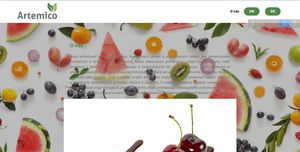
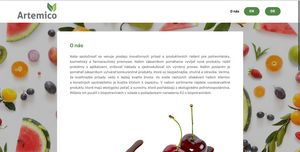
Sum

diff --git a/docs/objekta/web/04-2.html b/docs/objekta/web/04-2.html
@@ -15,6 +15,6 @@ body {
 }
 </style>
 <body> 
-<div align="center"> <a href="04-2.html"><img src="04.jpg" width="1300" height="3508" border="0"></a></div>
+<div align="center"> <a href="05.html"><img src="04-2.jpg" width="1300" height="3608" border="0"></a></div>
 </body>
 </html>
